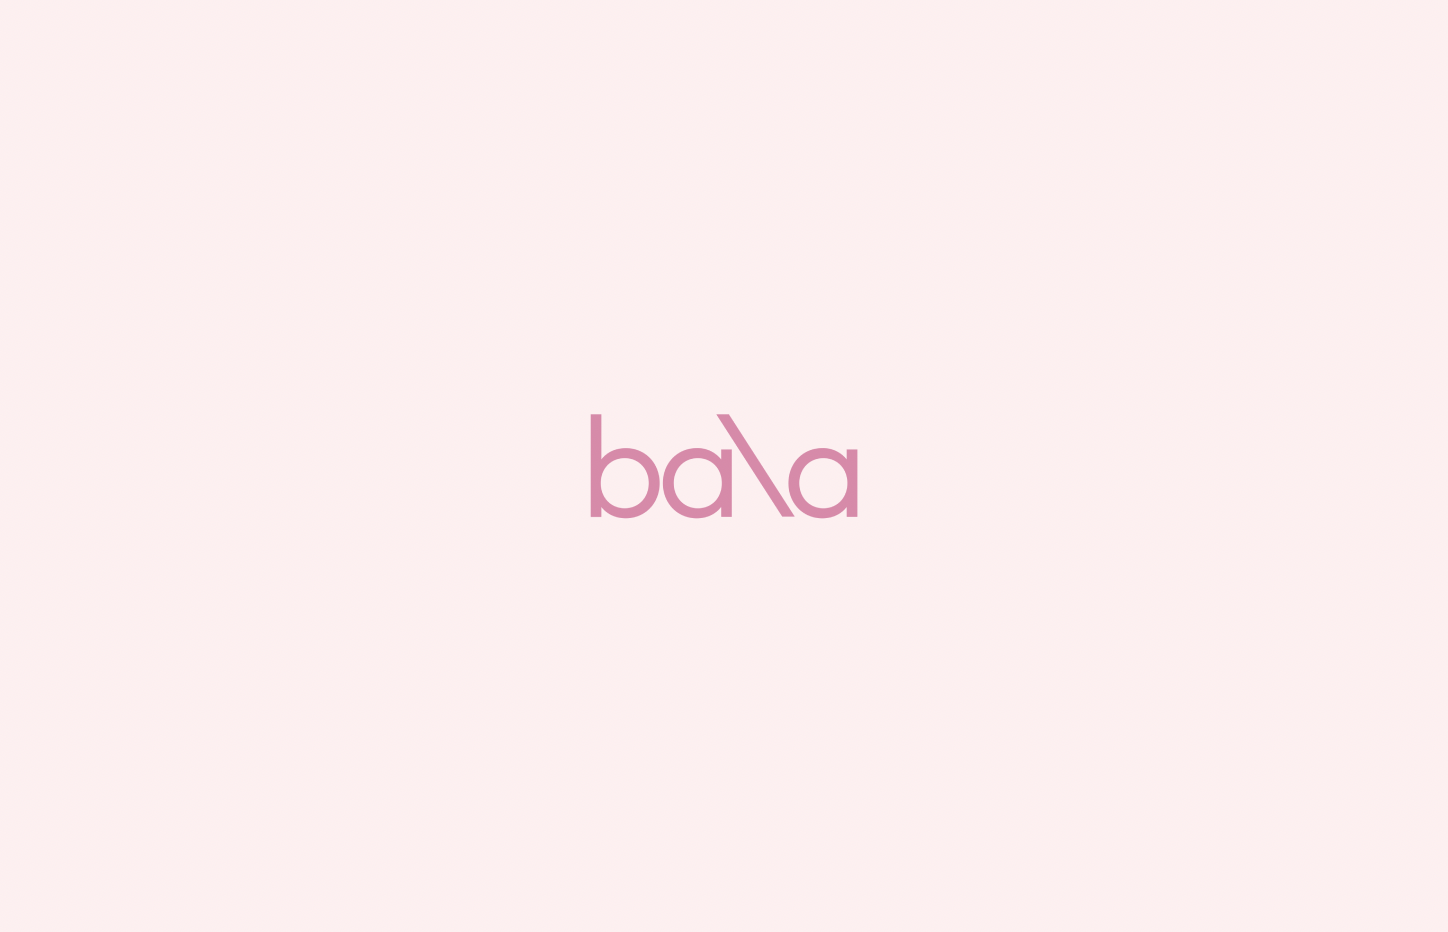
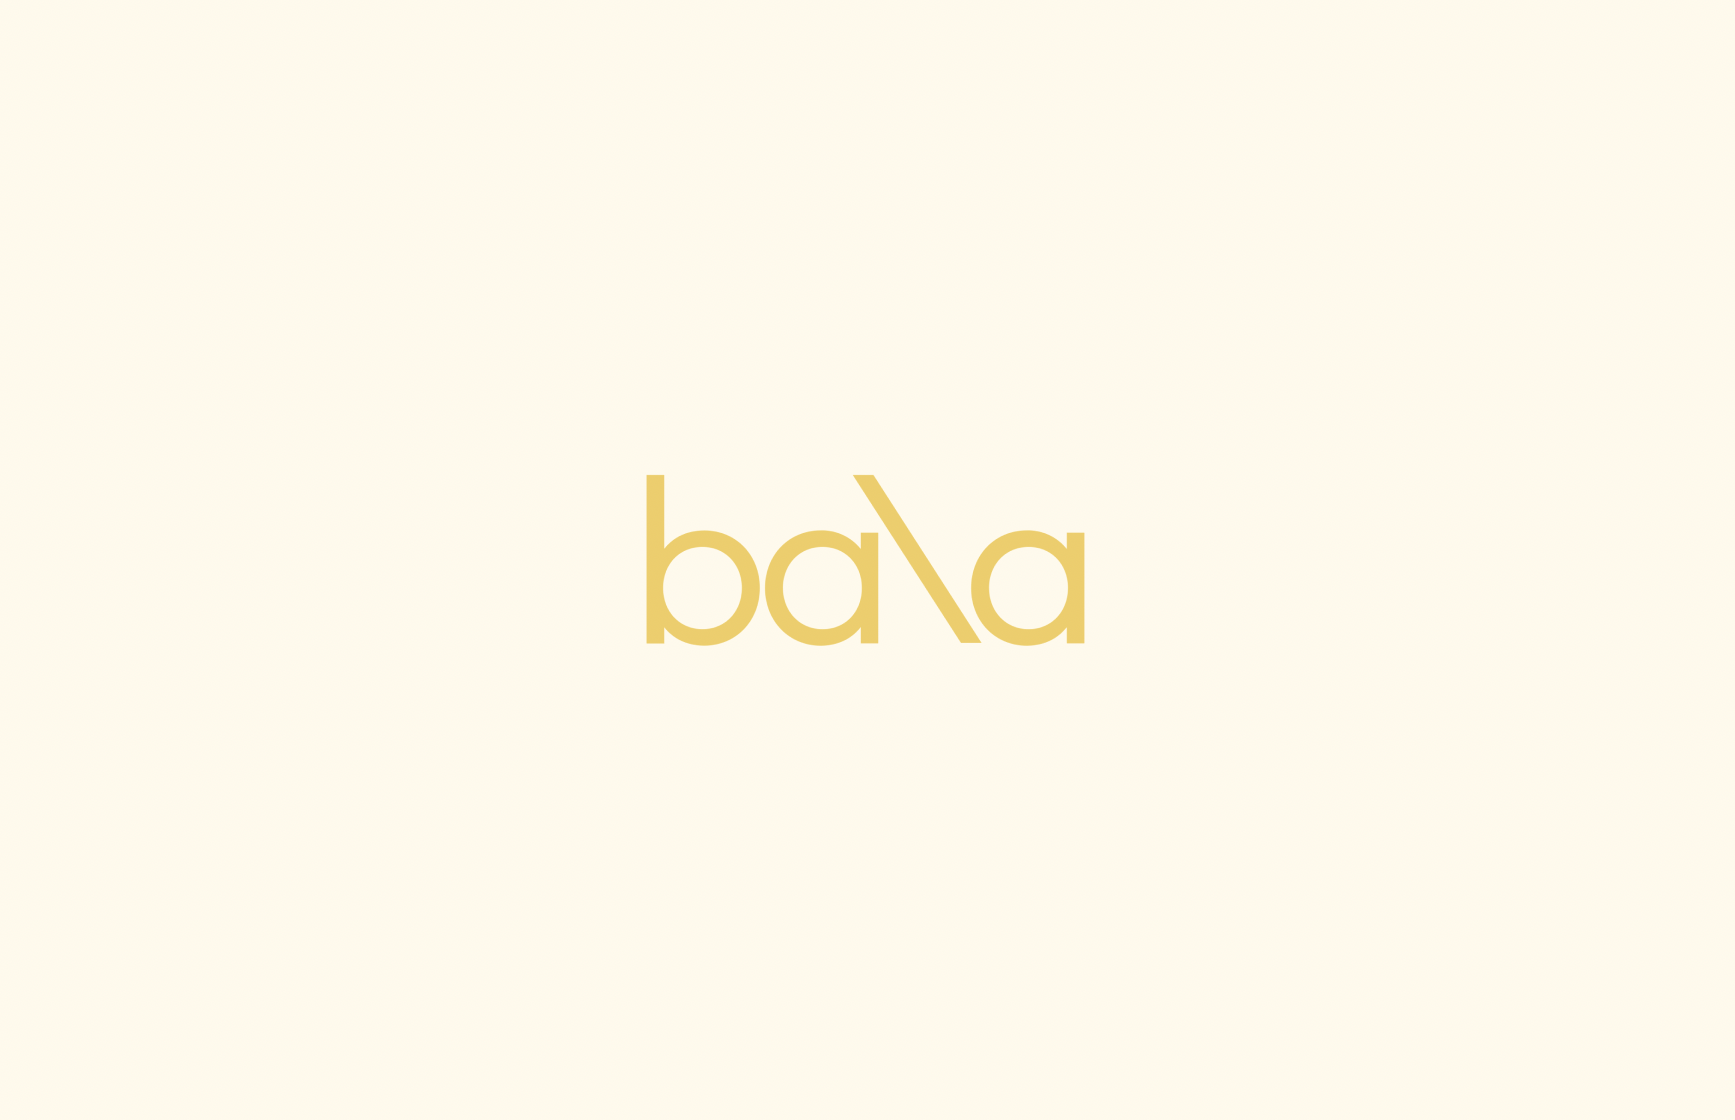
updated about

Changed region(s): [[0.3729, 0.4045, 0.6526, 0.5912]]

diff --git a/index.html b/index.html
@@ -129,8 +129,9 @@
       <h1> Hey there, I'm Irene! </h1>
 
       <!-- HEADER ROTATOR REMOVED STARTING HERE -->
-      <h3 > Computer science graduate from UC San Diego and 
-      designer creating digital experiences in Los Angeles, CA. </h3>
+      <h3 style="border:white 1px solid;"> 
+      Computer Science grad from UC San Diego fascinated in designing 
+      tools that can help individuals fulfill their health and wellness goals </h3>
 
       <div class="container" style="margin-left:0px; margin-top:20px;">
         <div class="row">
@@ -153,7 +154,7 @@
 
     <!-- ======= Portfolio Section ======= -->
     <section id="portfolio" class="portfolio">
-      <div class="container" style="width:80%;">
+      <div class="container" style="width:85%;">
         <br> <br>
         <div class="row portfolio-container">
 
@@ -164,7 +165,7 @@
               <div class="image" >
                 <img src="assets/img/proj_bala/cover.png" style="border-radius:10px;" class="img-fluid" alt="">
                 <div class="image_overlay2">
-                    <div class="image_title"> Content Redesign for <br> Bala Bangles </div>
+                    <div class="image_title"> Bala Bangles </div>
                     <p class="image_description"> Content Strategy, UX, VD, Concept
                     </p>
                 </div>
@@ -172,24 +173,8 @@
             </a>
           </div>
 
-
-          <!-- Chipotle redesign -->
-          <div class="col-lg-4 col-md-6 portfolio-item" class="img-fluid">
-            <a href="under_construction.html" target="blank">
-              <div class="image" >
-                <img src="assets/img/proj_chipotle/cover.png" style="border-radius:10px;" class="img-fluid" alt="">
-                <div class="image_overlay2">
-                    <div class="image_title"> Redesign for Chipotle </div>
-                    <p class="image_description"> Mobile, UX, VD, Concept
-                    </p>
-                </div>
-              </div>
-            </a>
-          </div>
-
-
           <!-- Proj 1: Covid-Code -->
-          <div class="col-lg-4 col-md-6 portfolio-item" class="img-fluid">
+          <!-- <div class="col-lg-4 col-md-6 portfolio-item" class="img-fluid">
             <a href="under_construction.html" target="blank">
               <div class="image">
                 <img src="assets/img/portfolio/pomolo_2.png" style="border-radius:10px;" class="img-fluid" alt="">
@@ -199,17 +184,8 @@
                 </div>
               </div>
             </a>
-          </div>
-            <!-- <div class="img-with-text"> 
-              <p> COVID-Code </p>
-            </div> -->
-            <!-- future: add swiping feature for each case study -->
-            <!-- <div class="portfolio-info">
-              <h4> COVID-Code </h4>
-              <p> Designing an iOS application capable of determining a user’s COVID-19 risk level and probability of contracting the virus. </p>
-              <a href="portfolio-details.html" class="details-link" title="More Details"><i class="bi bi-three-dots"></i></a>
-            </div> 
           </div> -->
+
 
           <!-- Proj 2 -->
           <div class="col-lg-4 col-md-6 portfolio-item" class="img-fluid">

diff --git a/balabangles.html b/balabangles.html
@@ -105,25 +105,25 @@
           <div class="col-lg-10 col-lg-7 entries">
 
             <article class="entry entry-single">
-              <h2 class="title1" style="color: #E386AA">
+              <h2 class="title1" style="color: #F2CC5C">
                 Bala Bangles
               </h2>
 
               <h2 class="subtitle1">
-                SOLO PROJECT FOR UCLA'S UX DESIGN PROGRAM 
+                SOLO CONTENT STRATEGY PROJECT
               </h2>
 
               <h2 class="subtitle2">
-                As a new design student under UCLA’s Extension program, I
-                was given the task of creating a login and signup feature for a
-                focus tracking app to help students. 
+                As a new student under UCLA’s Extension program for UX 
+                Design, I was tasked with creating a comprehensive content redesign 
+                strategy to improve a company's user engagement and elevate its online experience.
               </h2>
 
 
               
 
               <div class="entry-img" style="margin-bottom:10%; border-radius:15px;">
-                <img src="assets/img/portfolio/0header.png" alt="" class="img-fluid">
+                <img src="assets/img/proj_bala/cover2.png" alt="" class="img-fluid">
               </div>
 
 
@@ -134,21 +134,21 @@
                 <div class="case-details">                  
                   <h2 class="case-details"> TIME <br> <br> - </h2>
                   <p class="case-details">
-                    Spring 2022 (April - June)
+                    Fall 2022 (Oct - Dec)
                   </p>
                 </div>
                 <!-- role -->
                 <div class="case-details">                 
                   <h2 class="case-details"> ROLE <br> <br> - </h2>
                   <p class="case-details">                    
-                    User Research, Testing, Prototyping, Visuals
+                    Content Strategy, User Research, Prototyping, Visuals
                   </p>
                 </div>
                 <!-- type -->
                 <div class="case-details">                  
                   <h2 class="case-details"> TYPE <br> <br> - </h2>
                   <p class="case-details">
-                    Mobile App (iOS)
+                    Web Redesign
                   </p>
                 </div>
 
@@ -1109,9 +1109,9 @@
                   <!-- top / bottom style -->
                   <!-- <div class="container" style="margin:10px; border: white 1px solid;"></div> -->
 
-                  <a class="entry-buttons" href="https://www.figma.com/file/pNdZJegifzSxo6aCrb3F1d/Pomolo%2FLogin%2FFinal?node-id=846%3A7692" target="_blank">FIGMA WORK</a></li>
+                  <a class="entry-buttons" href="https://drive.google.com/file/d/1bVbu3Y1jAVvHOtV_rG0SCSXTej8boffo/view?usp=sharing" target="_blank">VIEW DECK</a></li>
 
-                  <a class="entry-buttons" href="https://www.figma.com/proto/pNdZJegifzSxo6aCrb3F1d/Pomolo%2FLogin%2FFinal?node-id=487%3A318&scaling=scale-down&page-id=0%3A1&starting-point-node-id=487%3A318" target="_blank"> VIEW PROTOTYPE </a>
+            
 
                 </div>
               </div>

diff --git a/aboutme.html b/aboutme.html
@@ -116,28 +116,29 @@
               <div class ="about-paragraph2">
                 Nice to meet you! I’m a Computer Science 
                 graduate from UC San Diego and UX designer in training. I'm 
-                currently studying under UCLA's UX Design program and working on 
-                projects in product design and mobile app development.
+                currently studying under UCLA's Extension program for UX Design 
+                and working on projects within the health and wellness space.
                 </div>
                 
               <div class = "about-paragraph2">
                 Because I’m always eager to learn and challenge my limits, my 
-                interests lie within self-development and habit formation. I 
-                believe in designing thoughtful, simple, and long-lasting 
-                solutions that can resolve human needs and help people live 
-                more fulfilling lives.
+                interests lie within self-development and understanding habit
+                formations. I believe in designing simple yet long-lasting 
+                solutions that can transform the way people live by helping them
+                overcome barriers and fulfill personal goals.
                 </div>
 
               <div class ="about-paragraph2">
-                I'd love to hear from you! Feel free to reach out to me at: 
+                <!-- If you'd like to get in touch, you can reach me at:
                 <a class="about-link" href="mailto: irenelue01@gmail.com" target="_blank" title="irenelue01@gmail.com"> irenelue01@gmail.com</a>.
+                 -->
     
                 <!-- <a class="cta-btn" href="mailto: irenelue01@gmail.com" 
                 style="color:#1563b1" target="_blank" title="irenelue01@gmail.com"> <u>✉</u></a> -->
-                <div class="container" style="margin-top:10px;"> 
+                <div class="container" style="margin-top:20px;"> 
                   
                 </div>
-                <!-- <a href="mailto: irenelue01@gmail.com" style="font-size: 20px" class="class1" target="_blank" title="Email"><i class="fas fa-paper-plane" ></i></a> -->
+                <a href="mailto: irenelue01@gmail.com" style="font-size: 40px" class="class1" target="_blank" title="Email"><i class="fas fa-paper-plane" ></i></a>
                 <a href="https://www.linkedin.com/in/irenelue/" class="class1" target="_blank" class="linkedin" title="LinkedIn"><i class="fab fa-linkedin-in"></i></a>
                 <a href="https://github.com/irenelue" class="class1" target="_blank" class="github" title="GitHub"><i class="bi bi-github"></i></a>
                 <a href="https://www.instagram.com/irenelue/"  class="class1" target="_blank" title="Instagram"><i class="bi bi-instagram"></i></a>

diff --git a/assets/css/style.css b/assets/css/style.css
@@ -567,7 +567,7 @@ h6 {
 	font-family: 'Work Sans', sans-serif;
 	text-align:left;
 	margin-top: 140px;
-	font-size: 70px;
+	font-size: 5vw;
 	font-weight:650;
 	letter-spacing: 0px;
 	text-transform: none;
@@ -592,17 +592,17 @@ h6 {
 
 #hero h3 {
 	/* font-family: "Nunito", sans-serif; */
-	max-width: 400px;
+	max-width: 500px;
 	font-family: 'Mukta', sans-serif;
 	text-align: left;
 	margin-top:10px;
 	margin-right:auto;
-	font-size: 16px;
+	font-size: 13pt;
 	font-weight: 350;
 	letter-spacing: 0.5px;
 	line-height:25px;
 	text-transform: none;
-	color: #252525;
+	color: #0E1126;
 	display: inline-block;
 
 	/* color: #1563b1; #1c87eb; #69c5cc; */
@@ -1668,7 +1668,7 @@ section {
 	left: 0%;
 	width: 100%;
 	height: 100%;
-	background: #ffffffbb; /* portfolio img hover 3587da #00000073; */
+	background: #ffffff; /* portfolio img hover 3587da #00000073; */
 	display: flex;
 	flex-direction: column;
 	align-items: center;
@@ -1684,7 +1684,7 @@ section {
 	left: 0%;
 	width: 100%;
 	height: 100%;
-	background: #00000073;
+	background: #ffffff;
 	/* portfolio img hover 3587da #00000073; */
 	display: flex;
 	flex-direction: column;
@@ -1781,16 +1781,16 @@ section {
 
 .portfolio .image_title {
 	max-width:100%;
-	font-size:2.2vw;
+	font-size:2.3vw;
 	font-family: 'Mukta', sans-serif;
 	margin-top:25px;
-	margin-bottom:15px;
+	margin-bottom:0px;
 	justify-content: center;
 	align-items: center;
 	text-align: center;
-	letter-spacing:0.5px;
-	font-weight: 500;
-	color: #ffffff;
+	letter-spacing:1px;
+	font-weight: 550;
+	color: #177add;
 
 }
 
@@ -1843,7 +1843,7 @@ section {
 	text-align: center;
 	width:90%;
 	font-family: "Mukta", sans-serif;
-	color: #fff;
+	color: #c3c3c3;
 	margin-top: 3px;
 	letter-spacing: 2px;
 	font-weight:300;

diff --git a/onboarding.html b/onboarding.html
@@ -114,7 +114,7 @@
               </h2>
 
               <h2 class="subtitle2">
-                As a new design student under UCLA’s Extension program, I
+                As a new student under UCLA’s Extension program for UX Design, I
                 was given the task of creating a login and registration feature for a
                 focus tracking app to help students. 
               </h2>
